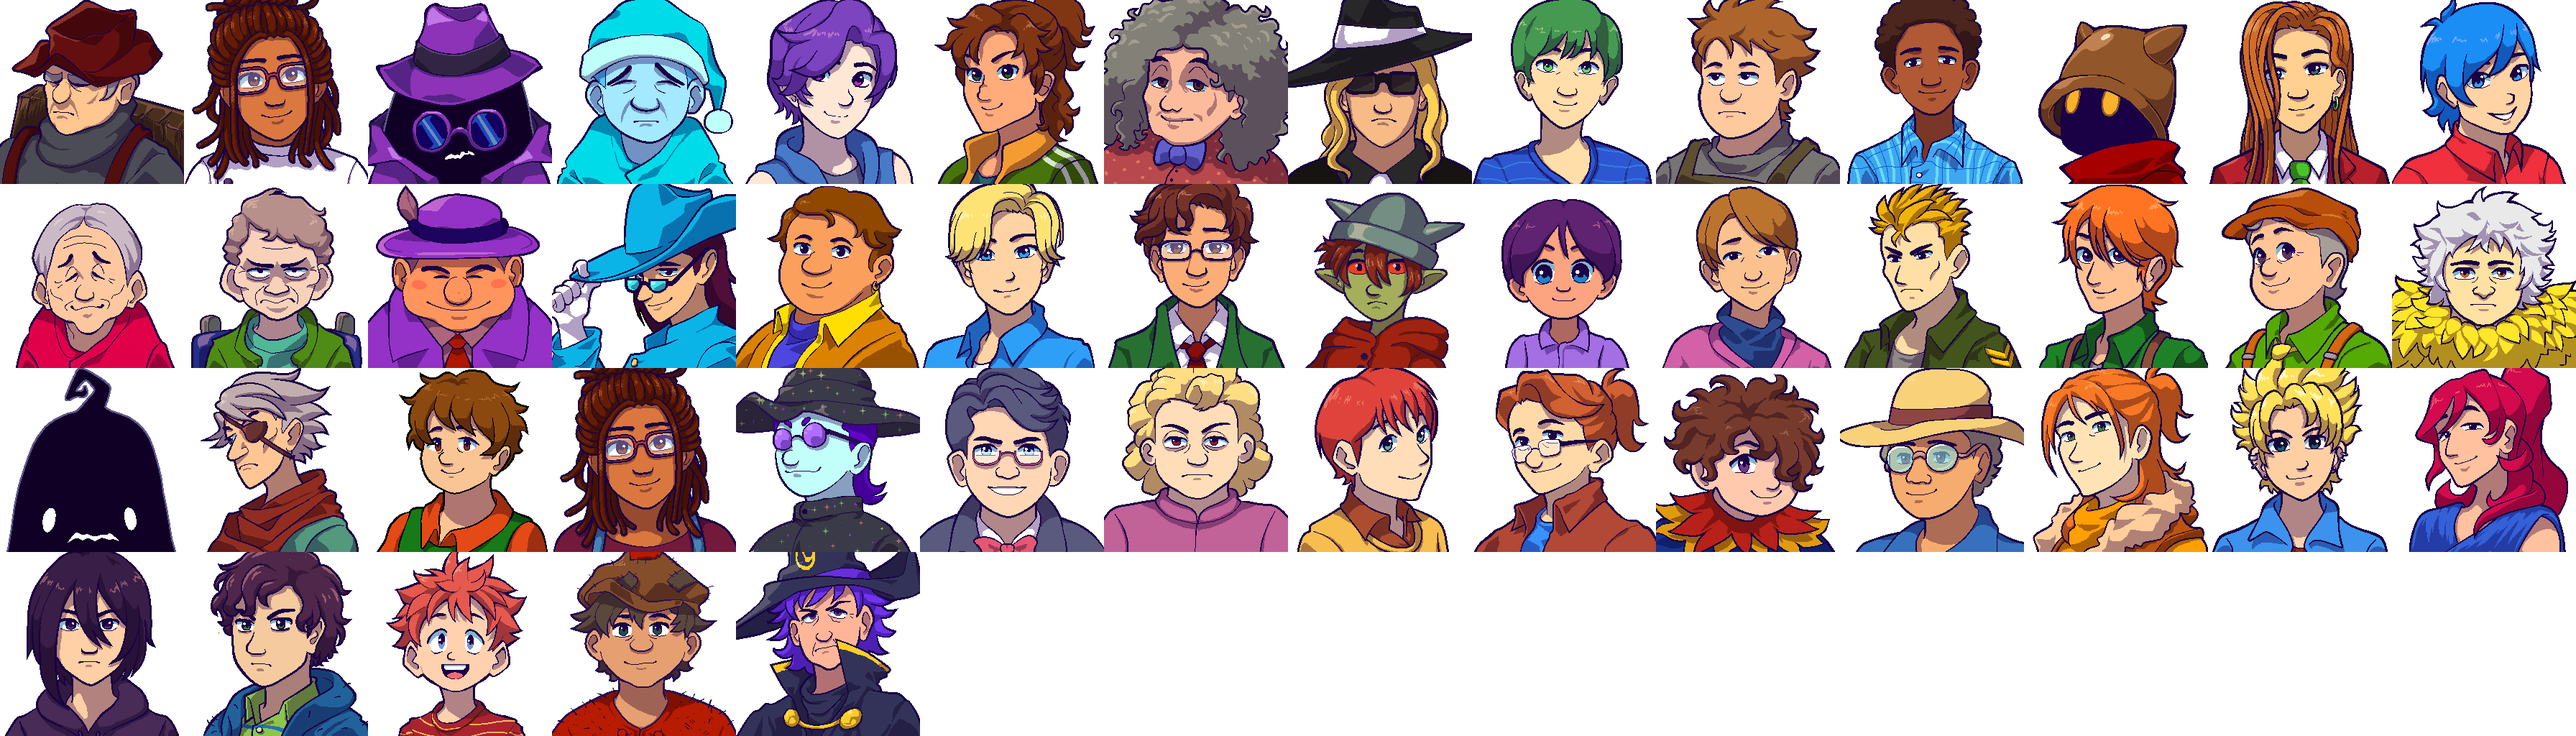
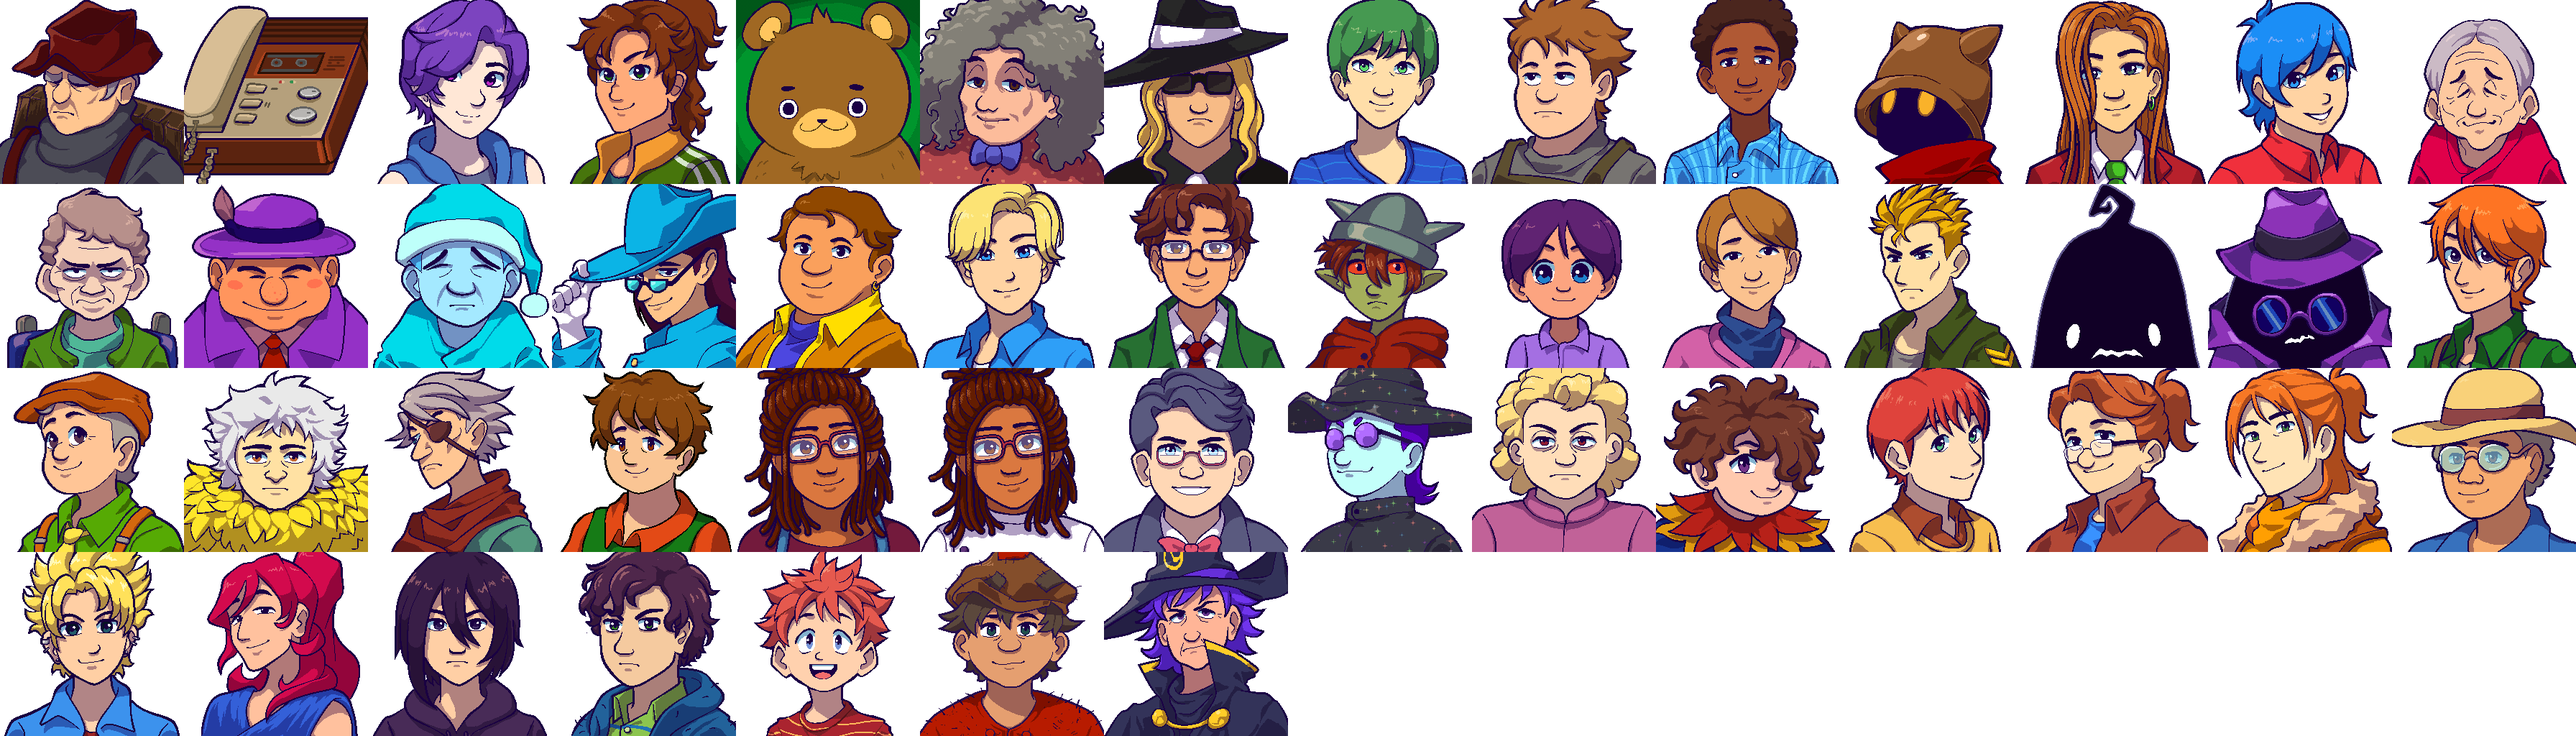
Images work!!

diff --git a/gender setter/make_gender_code.py b/gender setter/make_gender_code.py
@@ -70,20 +70,24 @@ def make_p_dict(pronoun, dict1,dict2):
 name_list1= ["Abigail","Alex","Birdie","Bouncer","Caroline","Charlie","Clint","Demetrius","Dwarf","Elliott","Emily","Evelyn","George","Gil","Governor","Grandpa","Gunther","Gus","Haley","Harvey","Henchman","Jas","Jodi","Kent","Krobus","Leah","Leo","Lewis","Linus","Marcello","Marlon","Marnie","Maru","MisterQi","Morris","OldMariner","Pam","Penny","Pierre",]
 name_list2= ["Robin","Sam","Sandy","Sebastian","Shane","Vincent","Willy","Wizard",]
 
-name_list = name_list1 + ["ProfessorSnail"]+name_list2
+name_list = name_list1 + ["ProfessorSnail"]+name_list2 #for pronouns etc
+
+sprite_list = sorted(name_list + ["Bear"])
+sprite_list.remove("Gil")
 
 beach_bodies = ["Abigail","Alex","Caroline","Clint","Elliott","Emily","Haley","Harvey","Jodi","Leah","Marnie","Maru","Pam","Penny","Pierre","Robin","Sam","Sebastian","Shane"]
 spouse_list = ["Abigail","Alex","Elliott","Emily","Haley","Harvey","Leah","Maru","Penny","Sam","Sebastian","Shane"]
 
 no_portrait_list = ["Marcello","OldMariner"]
-portrait_list = ["Gil"]
+other_portraits = ["Bear", "AnsweringMachine"]
 
-for name in name_list:
+portrait_list = ["AnsweringMachine"]
+
+for name in sprite_list:
     if name not in no_portrait_list and name !="Charlie":
         portrait_list.append(name)
 
-other_portraits = ["AnsweringMachine", "Bear"]   
-
+portrait_list = sorted(portrait_list)
 extras = {"Maru":"Maru_Hospital", "Krobus": "Krobus_Trenchcoat"}
 possession_dict= {"ProfessorSnail": "'s","Abigail":"'s","Alex":"'s","Birdie":"'s","Bouncer":"'s","Caroline":"'s","Charlie":"'s","Clint":"'s","Demetrius":"'","Dwarf":"'s","Elliott":"'s","Emily":"'s","Evelyn":"'s","George":"'s","Gil":"'s","Governor":"'s","Grandpa":"'s","Gunther":"'s","Gus":"'","Haley":"'s","Harvey":"'s","Henchman":"'s","Jas":"'","Jodi":"'s","Kent":"'s","Krobus":"'","Leah":"'s","Leo":"'s","Lewis":"'","Linus":"'","Marcello":"'s","Marlon":"'s","Marnie":"'s","Maru":"'s","MisterQi":"'s","Morris":"'","OldMariner":"'s","Pam":"'s","Penny":"'s","Pierre":"'s","Robin":"'s","Sam":"'s","Sandy":"'s","Sebastian":"'s","Shane":"'s","Vincent":"'s","Willy":"'s","Wizard":"'",}
 orig_gender_dict = {"ProfessorSnail": "Male","Abigail":"Female","Alex":"Male","Birdie":"Female","Bouncer":"Male","Caroline":"Female","Charlie":"Female","Clint":"Male","Demetrius":"Male","Dwarf":"Male","Elliott":"Male","Emily":"Female","Evelyn":"Female","George":"Male","Gil":"Male","Governor":"Male","Grandpa":"Male","Gunther":"Male","Gus":"Male","Haley":"Female","Harvey":"Male","Henchman":"Male","Jas":"Female","Jodi":"Female","Kent":"Male","Krobus":"Male","Leah":"Female","Leo":"Male","Lewis":"Male","Linus":"Male","Marcello":"Male","Marlon":"Male","Marnie":"Female","Maru":"Female","MisterQi":"Male","Morris":"Male","OldMariner":"Male","Pam":"Female","Penny":"Female","Pierre":"Male","Robin":"Female","Sam":"Male","Sandy":"Female","Sebastian":"Male","Shane":"Male","Vincent":"Male","Willy":"Male","Wizard":"Male",}
@@ -348,7 +352,7 @@ def create_config(current_gender):
             content.write("  \""+name+" Images\": \""+changesprite+"\",\n")  
     for name in other_portraits:
         if isHD:
-            content.write("  \""+name+" Images\": \"true\",\n")      
+            content.write("  \""+name+" Images\": \"Vanilla\",\n")      
         else:
             content.write("  \""+name+" Images\": \"false\",\n")                 
    
@@ -402,8 +406,8 @@ def initialise_variables(name):
         s+="    \""+name+" Gender\": {\"Default\": \""+o_gender+"\","+gender_string()+"},\n"
 
         s+="    \""+name+" Pronoun\": {\"Default\": \""+orig_pronoun_dict[o_gender]+"\","+pronoun_string()+"},\n"
-    s+="    \""+name+" Images\": {\"Default\": \""+"false"+"\",\"AllowValues\": \""
     if isHD:
+        s+="    \""+name+" Images\": {\"Default\": \""+orig_gender_dict[name]+"\",\"AllowValues\": \""
         s+= orig_gender_dict[name] 
         if name in variants_dict.keys():
             for variant in variants_dict[name]:
@@ -417,7 +421,8 @@ def initialise_variables(name):
             s+=", Androgynous Wheelchair"   
         if name in islander_chars:
             s+=", Androgynous Islander"  
-    else:    
+    else:   
+        s+="    \""+name+" Images\": {\"Default\": \""+"false"+"\",\"AllowValues\": \"" 
         if name in all_variants:
             s+="Vanilla"
             if name in darker_chars:
@@ -461,6 +466,56 @@ def gender_variables(name):
     s+="\n"
     return s
 
+
+##Talkoh specific
+
+def image_start_talkoh(name, type, variant):
+    #at the start of an image block 
+
+    s= "		{\"Action\": \"EditImage\","
+    if type =="sprite":
+        location = "Characters/"
+    else:
+        if variant =="setup":
+            location = "Mods/HDPortraits/" 
+            s = "		{\"Action\":\"Load\","   
+        else:    
+            location = "Mods/talkohSeasonal/"     
+
+    extra_code = ""
+    if name in beach_bodies and variant!="Female" and (name,variant) !=("Emily","LongSleeved"):
+        extra_code =", "+location
+        extra_code+=name+"_Beach"
+    if name in extras.keys():
+        extra_code =", "+location
+        extra_code+=extras[name]  
+    s+= "\"Target\":\""+location+artname(name, type) + extra_code + "\","     
+    return s       
+
+def image_middle_talkoh(name, type,variant):
+    return "\"FromFile\": \""+location_talkoh(variant, type)+"{{TargetWithoutPath}}.png\"," 
+
+def image_end_talkoh(name, variant):
+    #at the end of an image block
+    if name =="other":
+        return "\"When\": {\"Misc Image Edits\": \"true\"}},\n"
+    else:    
+        s = "\"When\": {"
+        if variant !="":
+            s+="\""+name+" Images\": \""+test_variable_talkoh(name, variant)+"\""  
+        else:
+            s+="\""+name+" Images|contains=false\": \"false\""    
+        s+="}},\n"
+        return s
+
+def image_line_talkoh(name, type,variant):
+    if artname(name, type)=="":
+        return ""
+    else:
+        return image_start_talkoh(name, type,variant) +image_middle_talkoh(name, type,variant)+image_end_talkoh(name, variant)    
+
+## Androgynous
+
 def image_start(name, type, variant):
     #at the start of an image block 
 
@@ -468,17 +523,12 @@ def image_start(name, type, variant):
     if type =="sprite":
         location = "Characters/"
     elif isHD:
-        if variant =="setup":
-            location = "Mods/HDPortraits/" 
-            s = "		{\"Action\":\"Load\","   
-        else:    
-            location = "Mods/talkohSeasonal/"     
+        location = "Mods/talkohSeasonal/"     
     else:
         location = "Portraits/"       
         
-
     extra_code = ""
-    if name in beach_bodies and variant!="Female" and (name,variant) !=("Emily","LongSleeved"):
+    if name in beach_bodies:
         extra_code =", "+location
         extra_code+=name+"_Beach"
     if name in extras.keys():
@@ -494,12 +544,12 @@ def image_middle_location(name, location):
     return "\"FromFile\": \"Androgynous/"+location+"/"+name+".png\"," 
 
 def image_end(name, variant):
-    #at the end of an image block
+    #at the end of an image block 
     if name =="other":
         return "\"When\": {\"Misc Image Edits\": \"true\"}},\n"
     else:    
         s = "\"When\": {"
-        if variant !="":
+        if variant !="" or isHD:
             s+="\""+name+" Images\": \""+test_variable(name, variant)+"\""  
         else:
             s+="\""+name+" Images|contains=false\": \"false\""    
@@ -679,10 +729,10 @@ def image_code_background():
     s+=image_pair_pos("other", "Minigames/jojacorps", "Other/jojacorps","",0, 600,0,600, 1200, 200) #computers
     #s+=image_pair_pos("other", "Minigames/jojacorps", "Other/jojacorps","",642, 246,0,0, 61, 28) #paintings
     #s+=image_pair_pos("other", "Minigames/jojacorps", "Other/jojacorps","",642, 7,0,0, 61, 28) #paintings 
-    image_line_other("Toddler") #toddlers
-    image_line_other("Toddler_girl")
-    image_line_other("Toddler_girl_dark")
-    image_line_other("Toddler_dark")
+    s+=image_line_other("Toddler") #toddlers
+    s+=image_line_other("Toddler_girl")
+    s+=image_line_other("Toddler_girl_dark")
+    s+=image_line_other("Toddler_dark")
     s+=image_pair("other","Characters/LeahExFemale","Characters/LeahEx","")
     s+=image_pair("other","Characters/LeahExMale","Characters/LeahEx","")
     return s
@@ -819,7 +869,7 @@ def create_content():
         content.write(initialise_variables(name))  
     for name in other_portraits:
         if isHD:
-            content.write("    \""+name+" Images\": {\"Default\": \""+"true"+"\",\"AllowValues\": \"false, true\"},\n\n")  
+            content.write("    \""+name+" Images\": {\"Default\": \""+"Vanilla"+"\",\"AllowValues\": \"false, Vanilla, Androgynous\"},\n\n")  
         else:
             content.write("    \""+name+" Images\": {\"Default\": \""+"false"+"\",\"AllowValues\": \"false, true\"},\n\n")  
     if isGS:
@@ -898,68 +948,65 @@ def test_variable(name, variant):
     # variant = Darker etc
 
     if isHD:
-        if variant in ["Young","Coat","LongSleeved", "Shaved"]:
-            return orig_gender_dict[name]+ " "+ variant
-        elif variant in ["Female","Androgynous"]:
-            return variant  
-        else:    
+        if variant =="":
+            return "Androgynous"
+        else:
             return "Androgynous "+ variant  
     else:
-            return variant                  
+            return variant     
+
+def test_variable_talkoh(name, variant):
+    # for When "(name) Image" : "test_variable(name, variant)"
+    # type = portrait, sprite
+    # variant = Darker etc
+    if variant in ["Young","Coat","LongSleeved", "Shaved"]:
+        return orig_gender_dict[name]+ " "+ variant
+    else:
+        return variant                              
 
 
 def location(variant, type):
     #location of the image we're using 
 
-    if isHD:
-        if variant =="":
-            if type == "sprite":
-                return "assets/Characters/"
-            else:
-                return "assets/Portraits/"
-        elif variant in ["Young","Coat","LongSleeved", "Shaved"]:
-            if type == "sprite":
-                return "assets/Characters/Variants/"+ variant + "/"
-            else:
-                return "assets/Portraits/Variants/"+ variant + "/"
-        elif variant =="Female":
-            if type == "sprite":
-                return "assets/Characters/Genderbent/" #this should never happen currently
-            else:
-                return "assets/Portraits/Genderbent/"
+    if variant =="":
+        if type == "sprite":
+            return "Androgynous/Characters/"
+        else:
+            return "Androgynous/Portraits/"
+    else:
+        if type == "sprite":
+            return "Androgynous/Characters/Variants/"+ variant + "/"
+        else:
+            return "Androgynous/Portraits/Variants/"+ variant + "/"     
 
-        elif variant =="Androgynous":
-            if type == "sprite":
-                return "Androgynous/Characters/"
-            else:
-                return "Androgynous/Portraits/"
+def location_talkoh(variant, type):
+    #location of the image we're using 
+
+    if variant =="":
+        if type == "sprite":
+            return "assets/Characters/"
         else:
-            if type == "sprite":
-                return "Androgynous/Characters/Variants/"+ variant + "/"
-            else:
-                return "Androgynous/Portraits/Variants/"+ variant + "/"
-    else:       
-        if variant =="":
-            if type == "sprite":
-                return "Androgynous/Characters/"
-            else:
-                return "Androgynous/Portraits/"
+            return "assets/Portraits/"
+    elif variant in ["Young","Coat","LongSleeved", "Shaved"]:
+        if type == "sprite":
+            return "assets/Characters/Variants/"+ variant + "/"
         else:
-            if type == "sprite":
-                return "Androgynous/Characters/Variants/"+ variant + "/"
-            else:
-                return "Androgynous/Portraits/Variants/"+ variant + "/"     
+            return "assets/Portraits/Variants/"+ variant + "/"
+    elif variant =="Female":
+        if type == "sprite":
+            return "assets/Characters/Genderbent/" #this should never happen currently
+        else:
+            return "assets/Portraits/Genderbent/"
+    else:
+        print("Error, unknown variant: "+variant)        
 
 def hd_extra_portraits():
     s = ""
-    for name in portrait_list:
-        s+= image_line(name, "portrait", "Androgynous")       
-        s+="\n"
     for name in variants_dict.keys():
         for variant in variants_dict[name]:
-            s+= image_line(name, "portrait", variant)   
+            s+= image_line_talkoh(name, "portrait", variant)   
     for name in genderswap_list:
-        s+= image_line(name, "portrait", "Female") 
+        s+= image_line_talkoh(name, "portrait", "Female") 
         if name in beach_bodies:
             s+="        {\n			\"Action\":\"EditImage\",\n"
             s+="			\"Target\":\"Mods/talkohSeasonal/"+portraitname(name) + "_Beach\",\n"
@@ -990,7 +1037,7 @@ def hd_setup():
     s+="        },\n\n" 
     
     for name in portrait_list:
-        s += image_start(name, "portrait", "setup")
+        s += image_start_talkoh(name, "portrait", "setup")
         s+="\"FromFile\":\"assets/base.json\","
         s+= "\"When\": {\""+name+" Images|contains=false\": \"false\",\"HasMod |contains=talkohlooeys.SeasonalPortraits\": false}},\n"  
     
@@ -1009,6 +1056,9 @@ def hd_setup():
     s+="			},\n"
     s+="			\"When\" :{\"HasMod |contains=talkohlooeys.SeasonalPortraits\": false}\n"
     s+="        },\n\n"
+    # for name in portrait_list:
+    #     s+= image_line_talkoh(name, "portrait", "")       
+    #     s+="\n"
     return s
 
 def create_image_code(): 
@@ -1018,15 +1068,9 @@ def create_image_code():
         s+="\n"    
     for name in portrait_list:
         s+= image_line(name, "portrait", "")  
-        if isHD:
-            if name =="Kent":
-                s+=image_line_pos(name,"sprite", "Androgynous", 0, 0, 64, 160) #for compatibility with Kent does the dishes  
-            else:
-                s+= image_line(name, "sprite", "Androgynous") 
-        else:    
-            if name =="Kent":
+        if name =="Kent":
                 s+=image_line_pos(name,"sprite","", 0, 0, 64, 160) #for compatibility with Kent does the dishes  
-            else:    
+        else:    
                 s+= image_line(name, "sprite", "")   
         if name in darker_chars:
             s+= image_line(name, "portrait", "Darker")  
@@ -1038,10 +1082,7 @@ def create_image_code():
             s+= image_line(name, "sprite", "Islander")   
         s+="\n"             
     for name in no_portrait_list:   
-        if isHD: 
-            s+= image_line(name, "sprite", "Androgynous") 
-        else:
-            s+= image_line(name, "sprite", "")    
+        s+= image_line(name, "sprite", "")    
         s+="\n" 
     if isGS:
             for name in spouse_list:
@@ -1058,7 +1099,6 @@ def create_image_code():
             s+="\n"                
     return s
 
-       
 isGS = True
 for isHD in [True, False]:
     for g in ["Male", "Female", "Neutral", "Test"]:

diff --git a/gender setter/generate_spritesheets.py b/gender setter/generate_spritesheets.py
@@ -47,9 +47,9 @@ def in_dictionary(dictionary, folder, name):
 spouse_list = ["Abigail","Alex","Elliott","Emily","Haley","Harvey","Leah","Maru","Penny","Sam","Sebastian","Shane"]
 orig_gender_dict = {"ProfessorSnail": "Male","Abigail":"Female","Alex":"Male","Birdie":"Female","Bouncer":"Male","Caroline":"Female","Charlie":"Female","Clint":"Male","Demetrius":"Male","Dwarf":"Male","Elliott":"Male","Emily":"Female","Evelyn":"Female","George":"Male","Gil":"Male","Governor":"Male","Grandpa":"Male","Gunther":"Male","Gus":"Male","Haley":"Female","Harvey":"Male","Henchman":"Male","Jas":"Female","Jodi":"Female","Kent":"Male","Krobus":"Male","Leah":"Female","Leo":"Male","Lewis":"Male","Linus":"Male","Marcello":"Male","Marlon":"Male","Marnie":"Female","Maru":"Female","MisterQi":"Male","Morris":"Male","OldMariner":"Male","Pam":"Female","Penny":"Female","Pierre":"Male","Robin":"Female","Sam":"Male","Sandy":"Female","Sebastian":"Male","Shane":"Male","Vincent":"Male","Willy":"Male","Wizard":"Male",}
 
-name_list1= ["Abigail","Alex","Birdie","Bouncer", "Caroline","Clint","Demetrius","Dwarf", "Elliott","Emily","Evelyn","George","Governor","Gunther","Gus","Haley","Harvey","Henchman","Jas","Jodi","Kent","Leah","Lewis","Linus","Krobus", "Marcello","Marlon","Marnie","Maru","MrQi","Morris","Mariner","Pam","Penny","Pierre",]
+name_list1= ["Abigail","Alex","Bear", "Birdie","Bouncer", "Caroline","Clint","Demetrius","Dwarf", "Elliott","Emily","Evelyn","George","Governor","Gunther","Gus","Haley","Harvey","Henchman","Jas","Jodi","Kent","Leah","Lewis","Linus","Krobus", "Marcello","Marlon","Marnie","Maru","MrQi","Morris","Mariner","Pam","Penny","Pierre",]
 name_list2= ["Robin","Sam","Sandy","Sebastian","Shane","Vincent","Willy","Wizard",]
-name_list = name_list1 + ["ParrotBoy","SafariGuy"]+name_list2
+sprite_list = sorted(name_list1 + ["ParrotBoy","SafariGuy","Maru_Hospital","Grandpa","Krobus_Trenchcoat"]+name_list2)
 beach_bodies = ["Abigail","Alex","Caroline","Clint","Elliott","Emily","Haley","Harvey","Jodi","Leah","Marnie","Maru","Pam","Penny","Pierre","Robin","Sam","Sebastian","Shane"]
 
 darker_chars = ["Marnie","Jas","Elliott","Grandpa","Sandy","Caroline","ParrotBoy","Birdie","SafariGuy"]
@@ -59,15 +59,15 @@ islander_chars = ["Birdie","SafariGuy","ParrotBoy"]
 start_path = "../../Gender Setter/[CP] Gender Setter/assets/"
 end_path = "../../Gender Setter/[CP] Gender Setter/Variants/Characters/"
 
-no_portrait_list = ["Bear","LeahEx","Marcello","Mariner","KrobusRaven","ClothesTherapyCharacters","Shane_JojaMart","Toddler","Toddler_girl_dark","Toddler_dark","Toddler_girl","Baby","WeddingOutfits","Baby_dark","SeaMonsterKrobus","Gourmand",]
+no_portrait_list = ["LeahEx","Marcello","Mariner","KrobusRaven","ClothesTherapyCharacters","Shane_JojaMart","Toddler","Toddler_girl_dark","Toddler_dark","Toddler_girl","Baby","WeddingOutfits","Baby_dark","SeaMonsterKrobus","Gourmand",]
 
-portrait_list = ["Gil","Maru_Hospital", "Krobus_Trenchcoat","Grandpa"]
+no_sprite_list = ["Gil","AnsweringMachine",] 
+portrait_list = no_sprite_list 
 
-for name in name_list:
+for name in sprite_list:
     if name not in no_portrait_list:
         portrait_list.append(name)
-        
-other_portraits = ["AnsweringMachine", ]          
+               
 ## Data processing  
 
 def genderswap(gender):
@@ -122,7 +122,7 @@ def make_screenshot(width, height, filepath, isBeach, image_type):
     if isBeach:
         filelist = beach_bodies
     elif image_type == "sprites":
-        filelist = name_list
+        filelist = sprite_list
     else:
         filelist = portrait_list         
 
@@ -262,7 +262,7 @@ def location(variant, type):
                 return "Portraits/Variants/"+ variant + "/"     
 
 def copy_image_line(name, type,variant):
-    if type =="sprite" and name=="Gil":
+    if type =="sprite" and name in no_sprite_list:
         return
     (start, end) = locations(type)
     full_start = start+location(variant, type)
